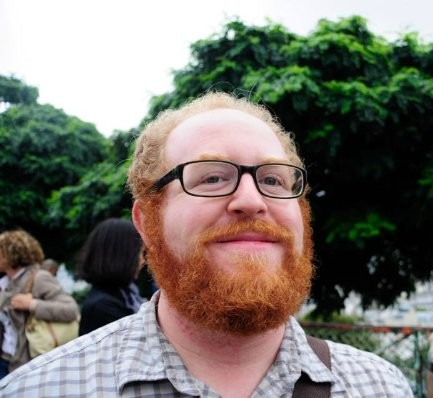
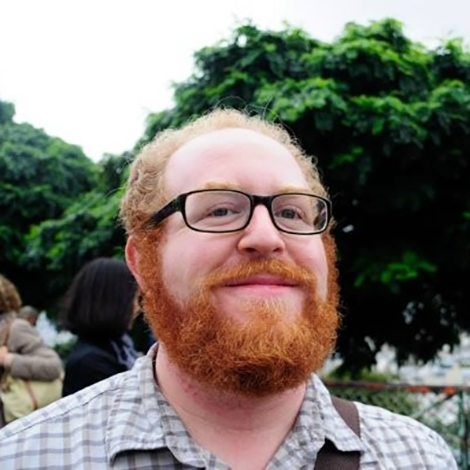
tinkering with media queries to get the look right for mobile

diff --git a/whoweare.html b/whoweare.html
@@ -43,22 +43,18 @@
 		  <div class="row">
 		    <h1>Who We Are</h1>
 		  </div>
-		  <div class="row wwa-margins">
-		    <div class="col-md-1">
+		  <div class="row wwa-margins wwa-profiles-large">
+		    <div class="col-md-2 offset-md-1">
+		    	<img src="images/aaron.png" class="whoweare-pics float-right" />
 		    </div>
-		    <div class="col-md-4">
-		    	<img src="images/aaron.png" class="whoweare-pics" />
-		    </div>
-		    <div class="col-md-6 float-left my-auto">
+		    <div class="col-md-3 float-left my-auto names-and-titles">
 		      <h2>Aaron Groch</h2>
 		      <h4>Chief Technical Officer</h4>
 		      <p><a href="https://www.linkedin.com/in/aaron-groch-2256b38/" target="_blank"><i class="fab fa-linkedin"></i></a></p>
 		    </div>
 		  </div>
-		  <div class="row wwa-margins">
-		    <div class="col-md-3">
-		    </div>
-		    <div class="col-md-4 float-right my-auto">
+		  <div class="row wwa-margins wwa-profiles-large">
+		    <div class="col-md-4 offset-md-3 float-right my-auto names-and-titles">
 		      <h2>Miriam Altmann-Barry</h2>
 		     	<h4>Chief Executive Officer</h4>
 		     	<p><a href="https://www.linkedin.com/in/miriamaltmannbarry/" target="_blank"><i class="fab fa-linkedin"></i></a></p>
@@ -67,6 +63,25 @@
 		    	<img src="images/miriam.jpeg" class="whoweare-pics" />
 		    </div>
 		  </div>
+
+		  <div class="row wwa-margins wwa-profiles-small">
+		  	<div class="col-md-6 offset-md-3 names-and-titles">
+		  		<p><img src="images/aaron.png" alt="Aaron Groch CTO" class="whoweare-pics float-right" /></p>
+		  		<h2>Aaron Groch</h2>
+		      <h4>Chief Technical Officer</h4>
+		      <p><a href="https://www.linkedin.com/in/aaron-groch-2256b38/" target="_blank"><i class="fab fa-linkedin"></i></a></p>
+		  	</div>
+		  </div>
+
+		  <div class="row wwa-margins wwa-profiles-small">
+		  	<div class="col-md-6 offset-md-3 names-and-titles">
+		  		<p><img src="images/miriam.jpeg" alt="Miriam Altmann-Barry CEO" class="whoweare-pics float-right" /></p>
+		  		<h2>Miriam Altmann-Barry</h2>
+		      <h4>Chief Executive Officer</h4>
+		      <p><a href="https://www.linkedin.com/in/miriamaltmannbarry/" target="_blank"><i class="fab fa-linkedin"></i></a></p>
+		  	</div>
+		  </div>
+
 		  <div class="wwa-margins">
 		    <h1>Our Story</h1>
 		    <p>

diff --git a/stylesheets/main.css b/stylesheets/main.css
@@ -2,6 +2,8 @@
 @import url("fontawesome/css/all.min.css");
 @import url('https://fonts.googleapis.com/css?family=Nunito+Sans&display=swap');
 
+/* Classes */
+
 .grab-llc {
   color: green;
   font-family: 'Nunito Sans', sans-serif;
@@ -14,6 +16,22 @@
 .marge-tb-30 {
   margin: 30px 0px;
 }
+
+.wwa-margins{
+  margin: 20px;
+}
+
+.whoweare-pics {
+  height: 250px;
+  width: 250px;
+  border-radius: 50%;
+}
+
+.wwa-profiles-small {
+  display: none;
+}
+
+/* IDs */
 
 #home_top {
   background-image: url("../images/helloquence-5fNmWej4tAA-unsplash.jpg");
@@ -35,12 +53,72 @@
   color: black;
 }
 
-.wwa-margins{
-  margin: 20px;
+#subjects_small_screen {
+  display: none;
 }
 
-.whoweare-pics {
-  height: 250px;
-  width: 250px;
-  border-radius: 50%;
+/* Media Queries */
+
+/* iPad Screens */
+@media only screen and (max-width: 1024px) {
+  #home_top_text {
+    font-size: 40px;
+    top: 58%;
+  }
+
+  .fa-7x {
+    font-size: 5em;
+  }
+
+  .whoweare-pics {
+    width: 150px;
+    height: 150px;
+  }
+
+  .names-and-titles h2, h4 {
+    font-size: 1.1em;
+  }
 }
+
+/* Smart Phone Screens */
+@media only screen and (max-width: 414px) {
+
+  #subjects_small_screen {
+    display: inline;
+    text-align: center;
+  }
+
+  #subjects_small_screen i {
+    font-size: 2em;
+  }
+
+  #subjects_large_screen {
+    display: none;
+  }
+
+  #home_top_text {
+    font-size: 30px;
+  }
+
+  .wwa-profiles-small {
+    display: inline;
+  }
+
+  .names-and-titles {
+    margin-top: 40px;
+  }
+
+  .names-and-titles h2, h4 {
+    font-size: 1em;
+  }
+
+  .whoweare-pics {
+    width: 125px;
+    height: 125px;
+  }
+
+  .wwa-profiles-large {
+    display: none;
+  }
+}
+

diff --git a/whatwedo.html b/whatwedo.html
@@ -47,7 +47,12 @@
 			  	<p>Subjects include:</p>
 				</div>
 			</div>
-			<div class="row marge-top-30">
+			<div class="row" id="subjects_small_screen">
+				<p>Front-End Web Design, Ruby on Rails,<br>
+				APIS, Deployment</p>
+				<p><i class="far fa-file-code"></i> <i class="far fa-gem"></i> <i class="fas fa-code-branch"></i> <i class="fas fa-upload"></i></p>
+			</div>
+			<div class="row marge-top-30" id="subjects_large_screen">
 				<div class="col-md-3 text-center">
 					<i class="far fa-file-code fa-7x"></i><br>
 					<h5>Front-End Web Design</h5>

diff --git a/index.html b/index.html
@@ -41,9 +41,9 @@
 
       <div class="row">
         <div class="col-md-12" id="home_top">
-          <p class="grab-llc" id="home_top_text">
+          <h1 class="grab-llc" id="home_top_text">
             Instruction & Consulting
-          </p>
+          </h1>
         </div>
       </div>
       <div class="container marge-top-30">
